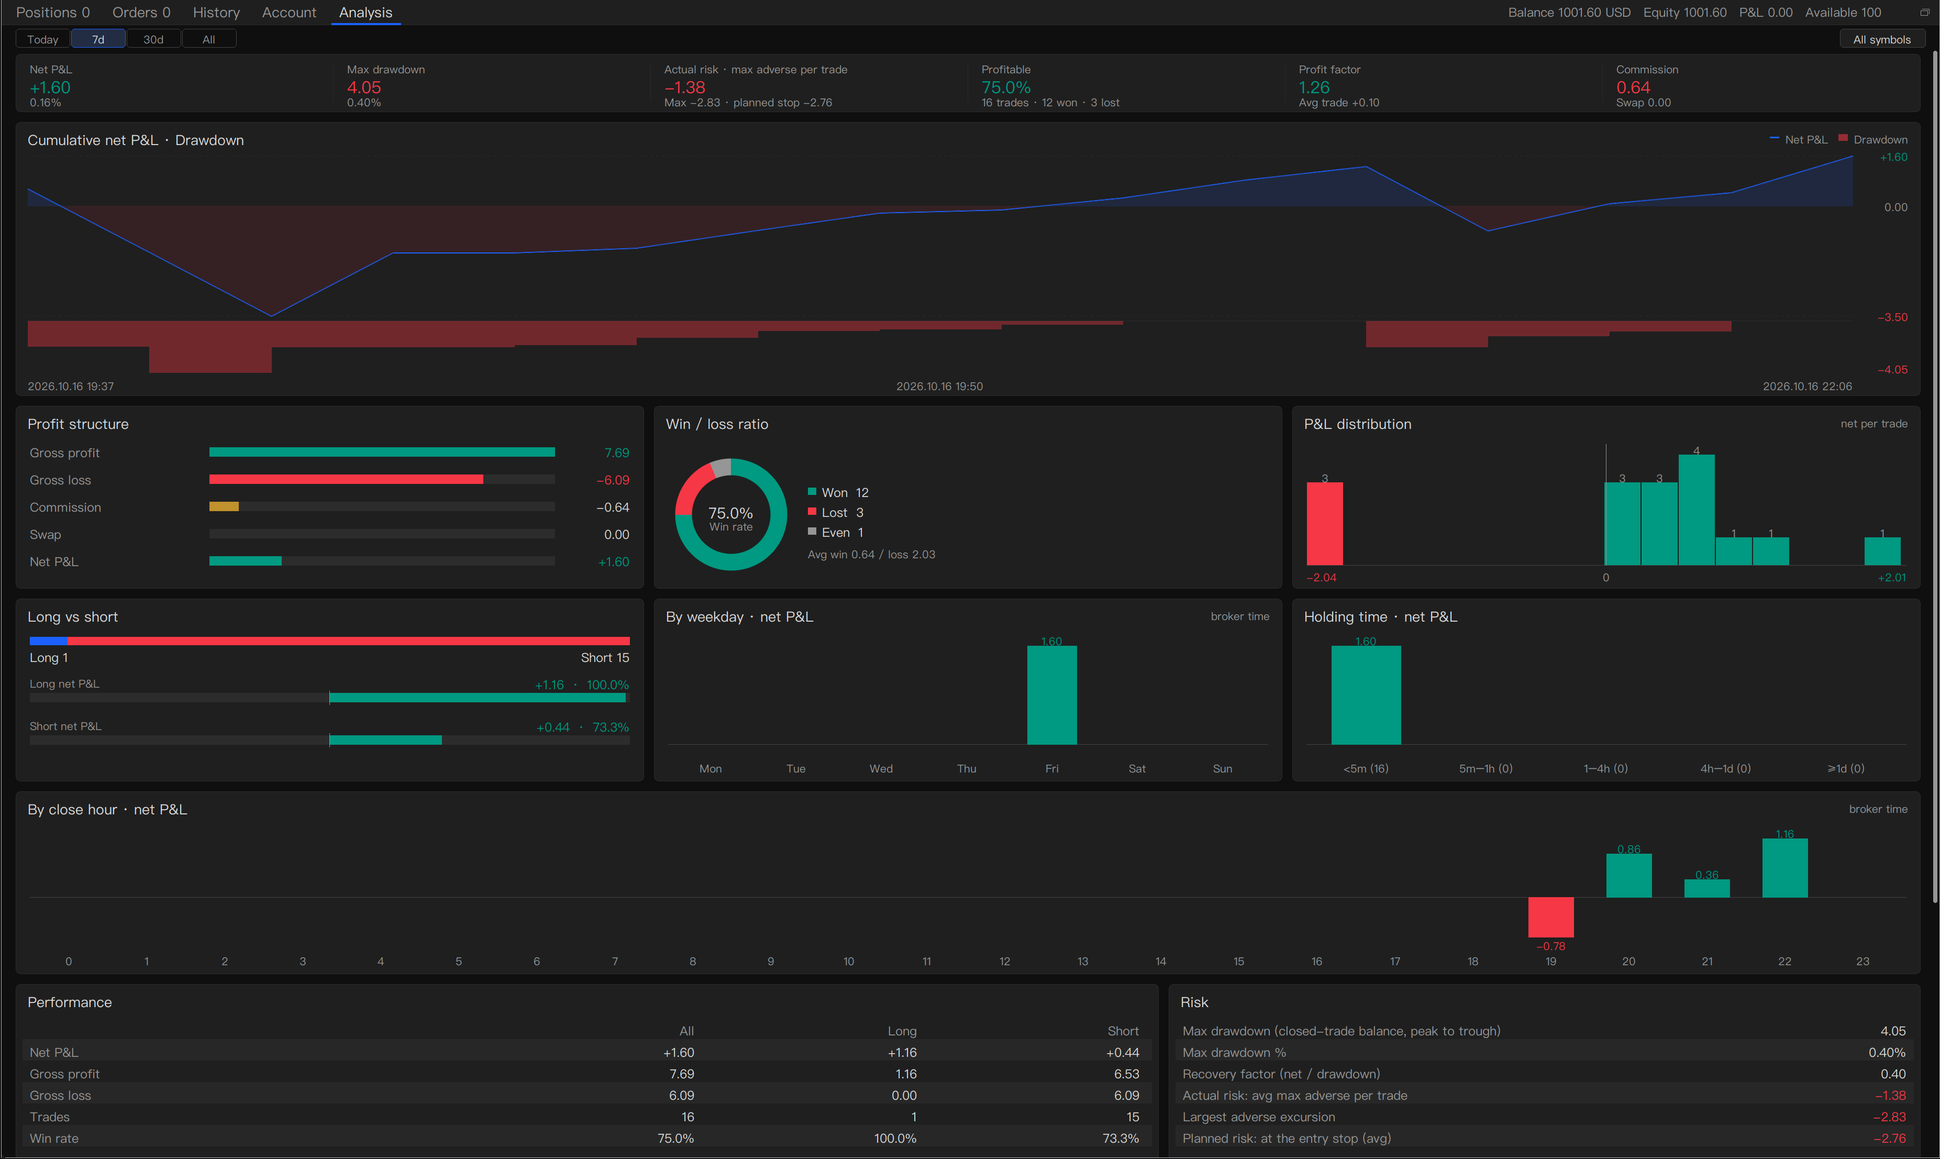
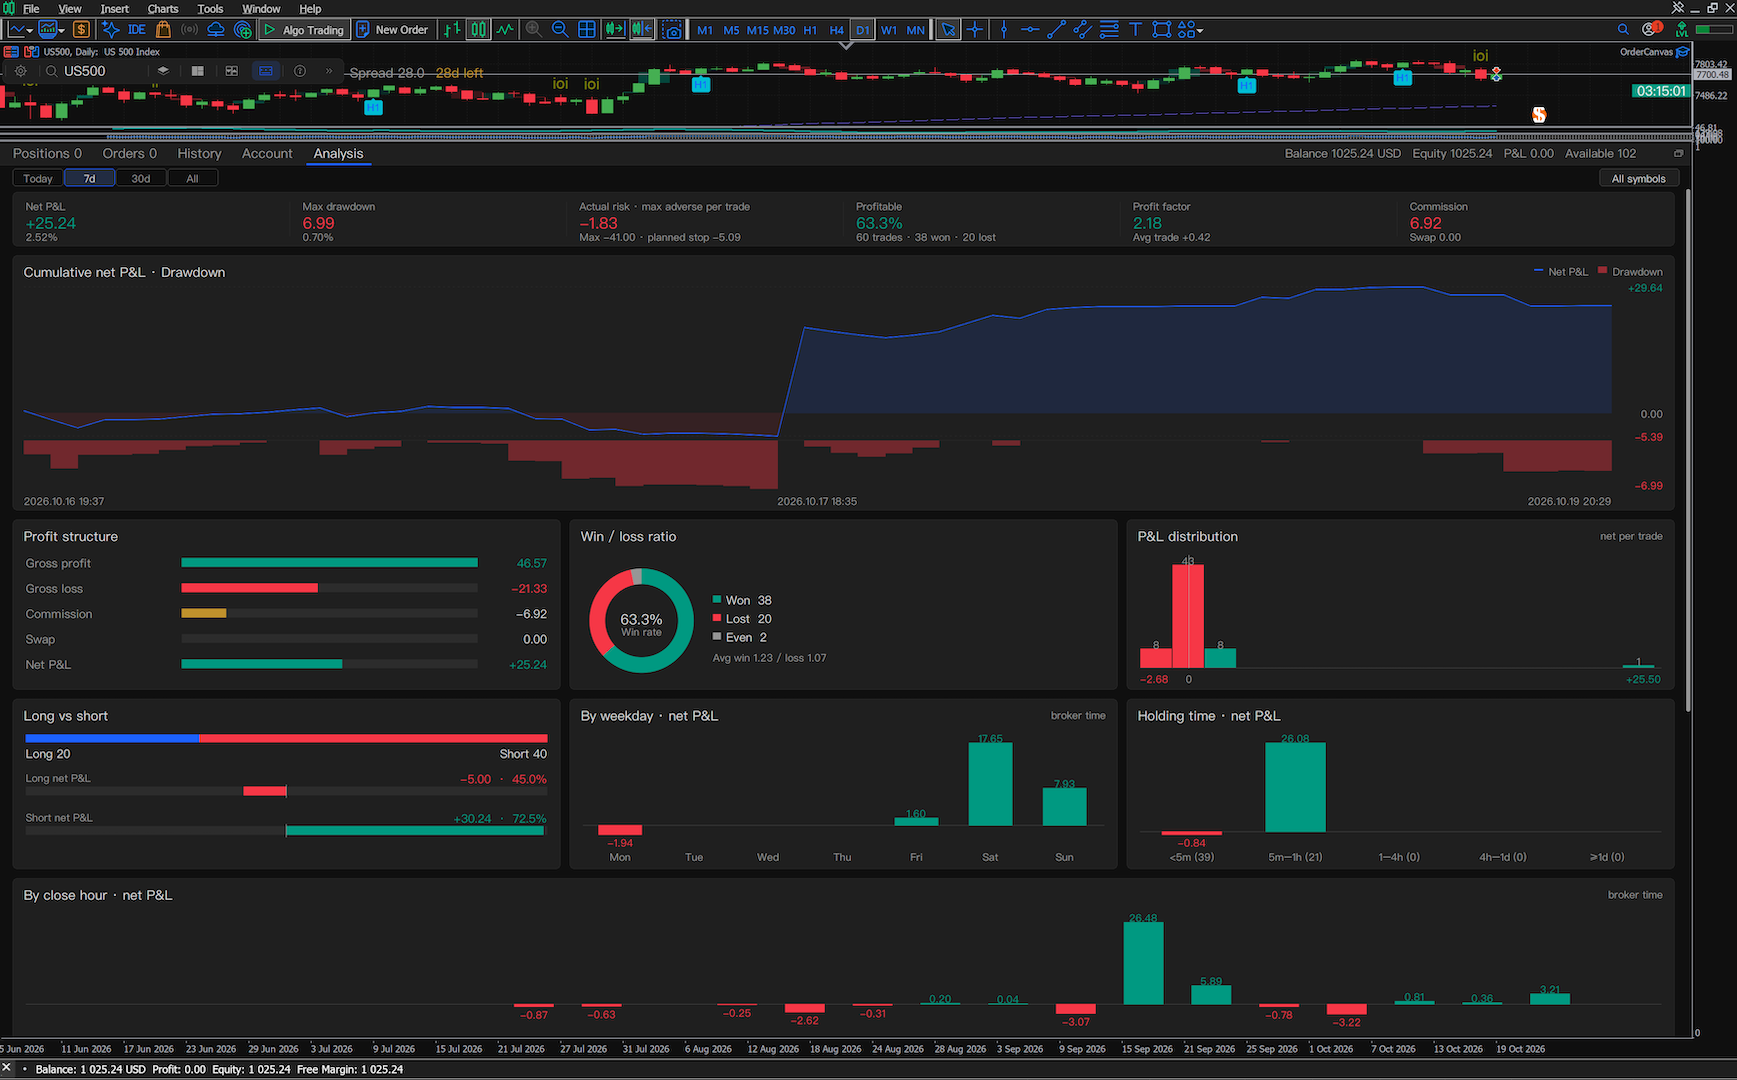
docs: 1.10 screenshots (workspace, analytics, auto-protection settings)

diff --git a/README.md b/README.md
@@ -122,7 +122,7 @@ Each module, colour and size is set in *Settings → page selector*. The workben
 - The three switches sit in the ticket under the exits, each showing its rule (BE +1R · Trail ATR×2 · Partial 1R·50%); 「Settings ›」 opens the details
 - They run while MT5 and this chart stay open (it is an EA, not a server-side stop) and act only on this panel's Magic number
 
-<p align="center"><img src="images/ticket-protect.png" width="38%"></p>
+<p align="center"><img src="images/ticket-protect.png" width="38%"> <img src="images/auto-protection.png" width="45%"></p>
 
 ## Feature checklist
 

diff --git a/README.zh-CN.md b/README.zh-CN.md
@@ -122,7 +122,7 @@ OrderCanvas 自带 **TVStudySuite** 价格行为工作台，直接画在 MT5 图
 - 三个开关就在下单面板止盈止损下面，并直接写出规则（保本 +1R · 追踪 ATR×2 · 分批 1R·50%），「设置 ›」进入详细参数
 - 需要 MT5 和这张图表保持打开（这是 EA，不是券商服务器上的止损），只管理本面板魔术号的单
 
-<p align="center"><img src="images/ticket-protect.png" width="38%"></p>
+<p align="center"><img src="images/ticket-protect.png" width="38%"> <img src="images/auto-protection.png" width="45%"></p>
 
 ## 功能清单
 
